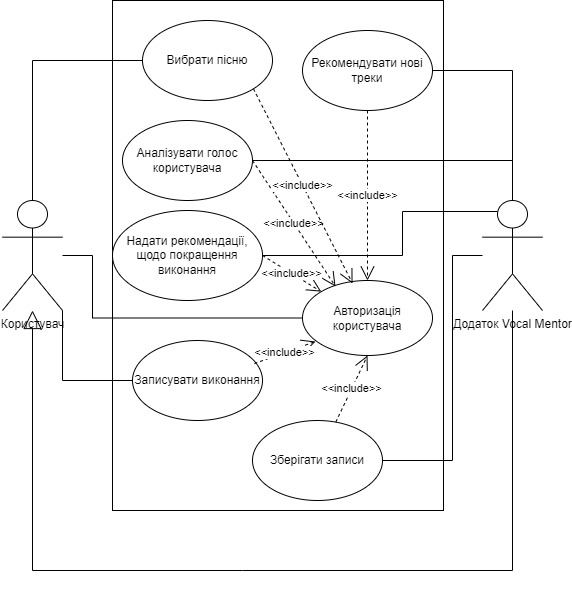
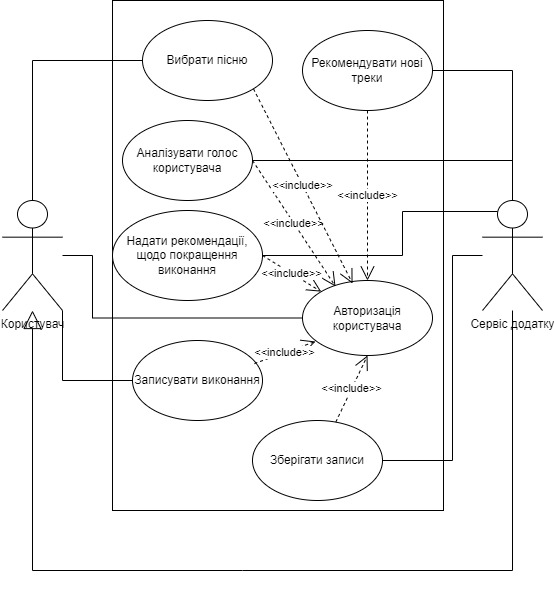
name actor fixed

diff --git a/1-SoftwareRequirements/1.3-SoftwareUserRequirements/1.3.3-UseCaseDiagram/README.md b/1-SoftwareRequirements/1.3-SoftwareUserRequirements/1.3.3-UseCaseDiagram/README.md
@@ -1,2 +1,3 @@
 ### Діаграма прецедентів програмного продукту
-![UseCaseDiagram](https://github.com/oleksandrblazhko/ai-215-smolkin/assets/101869573/e578fc17-4800-460c-a305-0161a627836f)
+![UseCaseDiagram](https://github.com/oleksandrblazhko/ai-215-smolkin/assets/101869573/32a3eaf5-b50c-404a-9dd4-9211a198b537)
+
